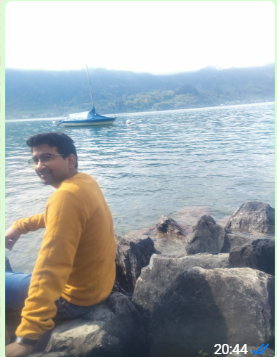
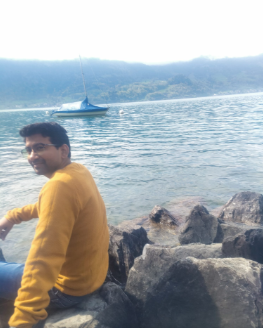
folder adustments

diff --git a/styles.css b/styles.css
@@ -170,13 +170,18 @@ body {
 .profile-placeholder {
     width: 300px;
     height: 300px;
-    border-radius: 50%;
-    background: linear-gradient(45deg, #4a6cf7, #6a11cb);
+    border-radius: 15px; /* Slight rounding of corners */
+    overflow: hidden;
+    box-shadow: 0 10px 30px rgba(0, 0, 0, 0.15);
     display: flex;
     justify-content: center;
     align-items: center;
-    font-size: 8rem;
-    color: white;
+}
+
+.profile-placeholder img {
+    width: 100%;
+    height: 100%;
+    object-fit: cover;
 }
 
 /* Sections */

diff --git a/index.html b/index.html
@@ -47,7 +47,7 @@
             </div>
             <div class="hero-image">
                 <div class="profile-placeholder">
-                    <i class="fas fa-user-circle"></i>
+                    <img src="Screenshot 2026-02-15 204453.png" alt="Zishan Profile">
                 </div>
             </div>
         </div>
